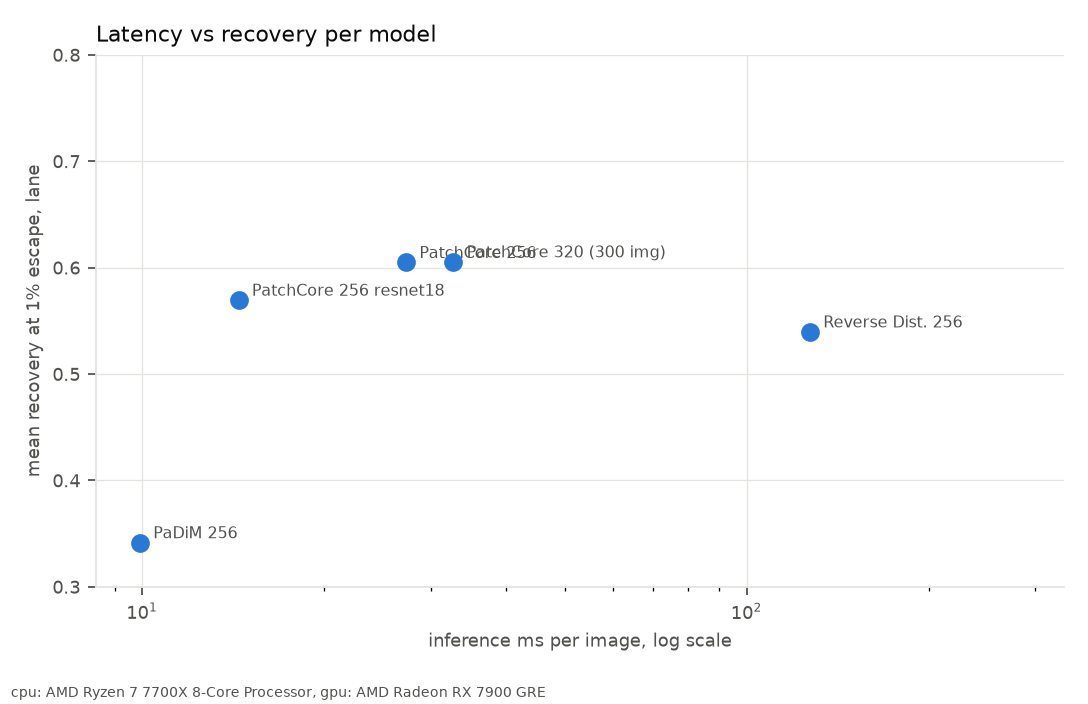
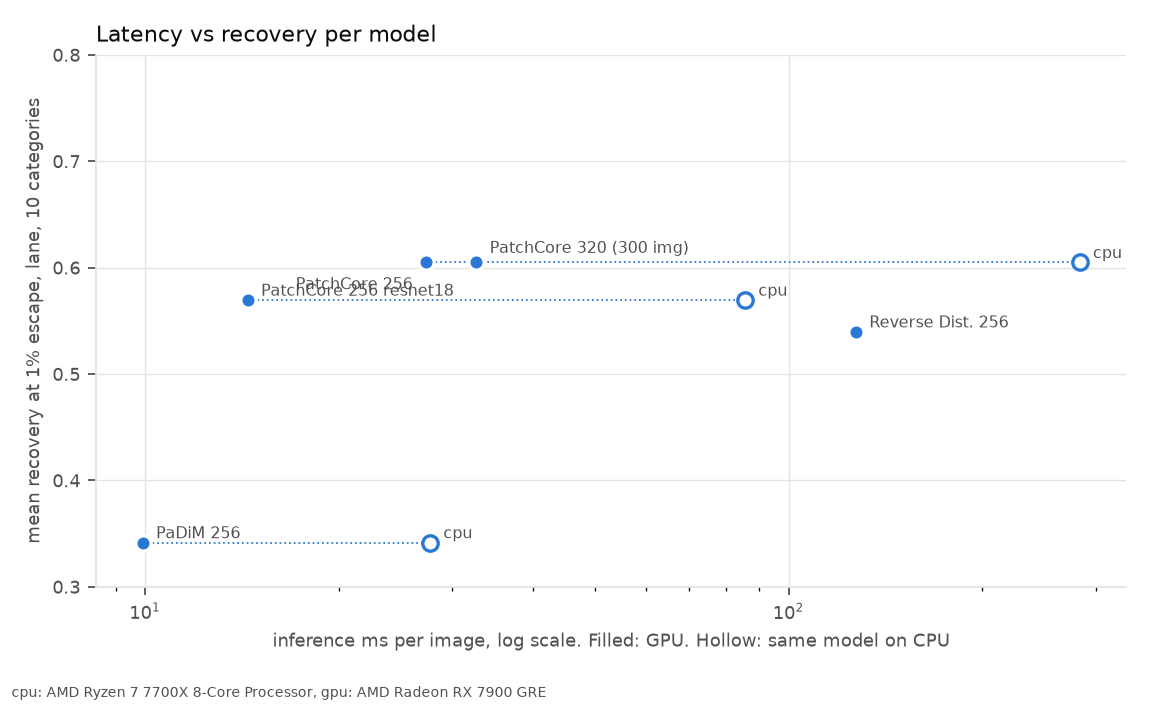
fix: cpu latency markers in speed figure

diff --git a/scripts/figures.py b/scripts/figures.py
@@ -111,19 +111,26 @@ def resolution(df: pd.DataFrame, out: Path) -> None:
 
 
 def speed(df: pd.DataFrame, devices: dict, out: Path) -> None:
-    """Mean lane recovery vs latency. GPU runs filled, CPU runs (tag suffix -cpu) hollow."""
+    """Mean lane recovery vs latency per model on the GPU. A hollow marker at the same height shows
+    the same model's latency on the CPU where it was timed (tag suffix -cpu, bottle only)."""
     names = dict(MODELS)
-    keys = list(names) + [f"{m}-cpu" for m in names]
-    g = df[df.model.isin(keys)].groupby("model").agg(rec=(COL, "mean"), ms=("ms_per_image", "mean")).reset_index()
-    fig, ax = plt.subplots(figsize=(6.8, 4.4))
-    for _, r in g.iterrows():
-        cpu = r.model.endswith("-cpu")
-        base = r.model[:-4] if cpu else r.model
-        ax.scatter(r.ms, r.rec, s=48, facecolor="#ffffff" if cpu else SERIES[0], edgecolor=SERIES[0], linewidth=1.5, zorder=3)
-        ax.annotate(names[base] + (" (cpu)" if cpu else ""), (r.ms, r.rec), xytext=(6, 2), textcoords="offset points", fontsize=7, color=INK2)
+    gpu = df[df.model.isin(names)].groupby("model").agg(rec=(COL, "mean"), ms=("ms_per_image", "mean"))
+    cpu = df[df.model.str.endswith("-cpu")].groupby("model").agg(ms=("ms_per_image", "mean"))
+    offsets = {"patchcore": (-6, -12), "patchcore-320-n300": (6, 4)}
+    fig, ax = plt.subplots(figsize=(7.2, 4.4))
+    for m, r in gpu.iterrows():
+        ax.scatter(r.ms, r.rec, s=48, color=SERIES[0], edgecolor="#ffffff", linewidth=1.5, zorder=3)
+        dx, dy = offsets.get(m, (6, 2))
+        ax.annotate(names[m], (r.ms, r.rec), xytext=(dx, dy), textcoords="offset points", fontsize=7, color=INK2,
+                    ha="right" if dx < 0 else "left")
+        if f"{m}-cpu" in cpu.index:
+            cms = cpu.loc[f"{m}-cpu", "ms"]
+            ax.plot([r.ms, cms], [r.rec, r.rec], color=SERIES[0], lw=0.8, ls=":", zorder=2)
+            ax.scatter(cms, r.rec, s=48, facecolor="#ffffff", edgecolor=SERIES[0], linewidth=1.5, zorder=3)
+            ax.annotate("cpu", (cms, r.rec), xytext=(6, 2), textcoords="offset points", fontsize=7, color=INK2)
     ax.set_xscale("log")
-    ax.set_xlabel("inference ms per image, log scale", fontsize=8, color=INK2)
-    ax.set_ylabel("mean recovery at 1% escape, lane", fontsize=8, color=INK2)
+    ax.set_xlabel("inference ms per image, log scale. Filled: GPU. Hollow: same model on CPU", fontsize=8, color=INK2)
+    ax.set_ylabel("mean recovery at 1% escape, lane, 10 categories", fontsize=8, color=INK2)
     ax.set_ylim(0.3, 0.8)
     ax.set_title("Latency vs recovery per model", fontsize=10, color=INK, loc="left")
     fig.text(0.01, 0.01, ", ".join(f"{k}: {v}" for k, v in sorted(devices.items())), fontsize=6.5, color=INK2)
